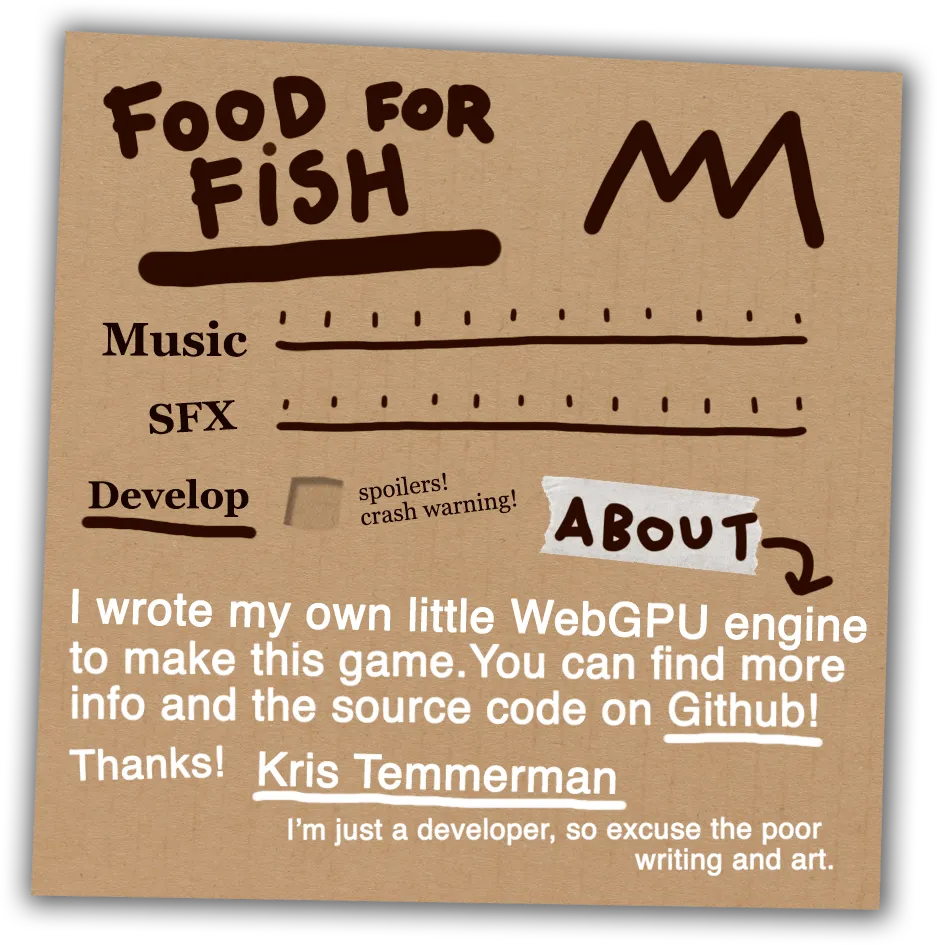
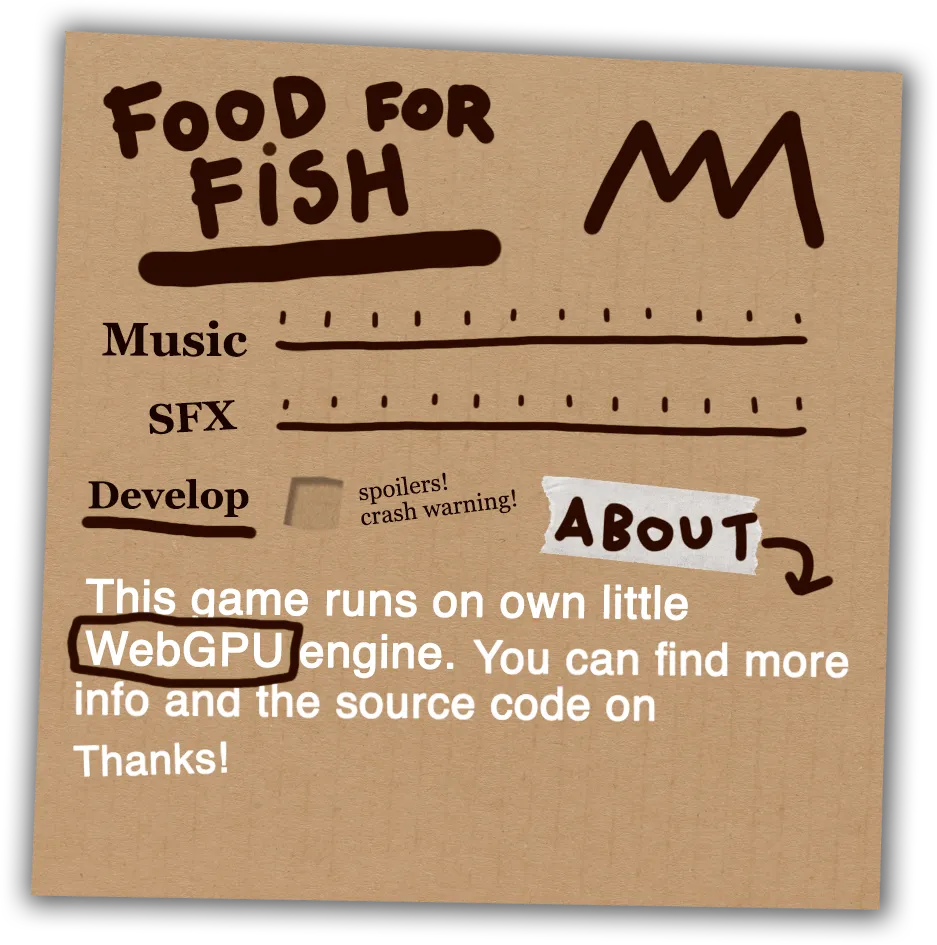
ui

Changed region(s): [[0.0619, 0.6138, 0.9285, 0.8286], [0.2476, 0.7979, 0.8975, 0.9206]]

diff --git a/frontend/src/ui/Menu.ts b/frontend/src/ui/Menu.ts
@@ -6,6 +6,8 @@ import gsap from "gsap";
 import CloseButton from "./CloseButton";
 import DraggButton from "./DraggButton";
 import CheckButton from "./CheckButton";
+import KrisButton from "./KrisButton";
+import GithubButton from "./GithubButton";
 
 export default class Menu extends UIBitmapModel {
     private yPos: number = 133 / 2 - 20;
@@ -15,6 +17,8 @@ export default class Menu extends UIBitmapModel {
     private draggMusicButton: DraggButton;
     private draggFxButton: DraggButton;
      checkBtn: CheckButton;
+    private krisButton: KrisButton;
+    private githubButton: GithubButton;
 
     constructor(renderer: Renderer, preLoader: PreLoader) {
         super(renderer, preLoader, "menu", "UI/mainMenu.webp");
@@ -46,6 +50,25 @@ export default class Menu extends UIBitmapModel {
         this.checkBtn = new CheckButton(renderer, preLoader, "checkBtn");
         this.checkBtn.setPosition(-150, 33, 0);
         this.addChild(this.checkBtn)
+
+
+        this.krisButton = new KrisButton(renderer, preLoader, "krisMenu")
+        this.krisButton .setPosition(-20, 305, 0);
+        this.addChild( this.krisButton )
+        this.krisButton .onClick = () => {
+
+            GameModel.sound.playClick()
+            window.open("http://neuroproductions.be/", "_blank");
+        }
+
+        this.githubButton = new GithubButton(renderer, preLoader, "gitMenu")
+        this.githubButton .setPosition(270, 245, 0);
+        this.addChild( this.githubButton )
+        this.githubButton .onClick = () => {
+
+            GameModel.sound.playClick()
+            window.open("https://github.com/neuroprod/webgpu", "_blank");
+        }
 
 
     }

diff --git a/frontend/src/ui/Endscreen.ts b/frontend/src/ui/Endscreen.ts
@@ -1,0 +1,32 @@
+import UIBitmapModel from "../lib/model/UIBitmapModel";
+import CloseButton from "./CloseButton";
+import DraggButton from "./DraggButton";
+import CheckButton from "./CheckButton";
+import KrisButton from "./KrisButton";
+import GithubButton from "./GithubButton";
+import Renderer from "../lib/Renderer";
+import PreLoader from "../lib/PreLoader";
+import GameModel from "../GameModel";
+
+export default class Endscreen extends UIBitmapModel {
+    private uiScale: number;
+
+
+    constructor(renderer: Renderer, preLoader: PreLoader) {
+        super(renderer, preLoader, "endscreen", "UI/endscreen.webp");
+        this.visible =false;
+    }
+    update() {
+        if (!this.visible) return;
+        super.update();
+        this.setPosition(GameModel.screenWidth / 2, GameModel.screenHeight / 2 , -1)
+        if (GameModel.screenHeight > 1000) {
+            this.uiScale = 1;
+        } else {
+            this.uiScale = GameModel.screenHeight / 1000;
+        }
+        
+        this.setScale(this.uiScale, this.uiScale, this.uiScale)
+    }
+
+}

diff --git a/frontend/src/ui/GithubButton.ts b/frontend/src/ui/GithubButton.ts
@@ -1,0 +1,36 @@
+import UIBitmapModel from "../lib/model/UIBitmapModel";
+import Renderer from "../lib/Renderer";
+import PreLoader from "../lib/PreLoader";
+import gsap from "gsap";
+import GameModel from "../GameModel";
+
+
+export default class GithubButton extends UIBitmapModel{
+
+    private scale =1
+    constructor(renderer:Renderer,preLoader:PreLoader,label:string) {
+        super(renderer,preLoader,label,"UI/github.webp");
+    }
+    update() {
+        if(!this.visible)return;
+        super.update();
+        this.setScale(this.scale,this.scale,this.scale)
+    }
+
+    onOver() {
+
+        super.onOver();
+        GameModel.sound.playClick(0.2);
+        gsap.killTweensOf(this)
+        gsap.to(this,{scale:1.01,duration:0.15,ease:"back.out"})
+
+    }
+    onOut() {
+
+        super.onOut();
+        gsap.killTweensOf(this)
+        gsap.to(this,{scale:1,duration:0.1,ease:"back.out"})
+    }
+
+
+}

diff --git a/frontend/src/ui/KrisButton.ts b/frontend/src/ui/KrisButton.ts
@@ -1,0 +1,36 @@
+import UIBitmapModel from "../lib/model/UIBitmapModel";
+import Renderer from "../lib/Renderer";
+import PreLoader from "../lib/PreLoader";
+import gsap from "gsap";
+import GameModel from "../GameModel";
+
+
+export default class KrisButton extends UIBitmapModel{
+
+    private scale =1
+    constructor(renderer:Renderer,preLoader:PreLoader,label:string) {
+        super(renderer,preLoader,label,"UI/kris.webp");
+    }
+    update() {
+        if(!this.visible)return;
+        super.update();
+        this.setScale(this.scale,this.scale,this.scale)
+    }
+
+    onOver() {
+
+        super.onOver();
+        GameModel.sound.playClick(0.2);
+        gsap.killTweensOf(this)
+        gsap.to(this,{scale:1.1,duration:0.15,ease:"back.out"})
+
+    }
+    onOut() {
+
+        super.onOut();
+        gsap.killTweensOf(this)
+        gsap.to(this,{scale:1,duration:0.1,ease:"back.out"})
+    }
+
+
+}

diff --git a/frontend/src/ui/GameUI.ts b/frontend/src/ui/GameUI.ts
@@ -12,6 +12,7 @@ import InventoryDetail from "./InventoryDetail";
 import EnterButton from "./EnterButton";
 import Cursor, {CURSOR} from "./Cursor";
 import Note from "./Note";
+import Endscreen from "./Endscreen";
 
 
 export default class GameUI {
@@ -31,6 +32,7 @@ export default class GameUI {
     private enterButton: EnterButton;
     private state: UIState = UIState.PRELOAD;
     private note: Note;
+    private endscreen: Endscreen;
 
     constructor(renderer: Renderer, preLoader: PreLoader) {
 
@@ -69,6 +71,9 @@ export default class GameUI {
 
         this.note = new Note(renderer, preLoader)
         this.root.addChild(this.note)
+
+        this.endscreen =new Endscreen(renderer,preLoader)
+        this.root.addChild(this.endscreen)
         // this.test.setEuler(Math.PI,0,0)
 
         this.menuButton.hide()

diff --git a/frontend/src/ui/UIModelRenderer.ts b/frontend/src/ui/UIModelRenderer.ts
@@ -2,6 +2,7 @@ import Model from "../lib/model/Model";
 import RenderPass from "../lib/core/RenderPass";
 import Renderer from "../lib/Renderer";
 import Camera from "../lib/Camera";
+import GameModel from "../GameModel";
 
 export default class UIModelRenderer{
 
@@ -20,7 +21,7 @@ export default class UIModelRenderer{
         const passEncoder =pass.passEncoder;
 
         passEncoder.setBindGroup(0,this.camera.bindGroup);
-
+      //  passEncoder.setBindGroup(0,this.renderer.bindGroup);
         for (let model of this.models) {
             if(!model.visible)continue;
             if(!model.mesh)continue;
